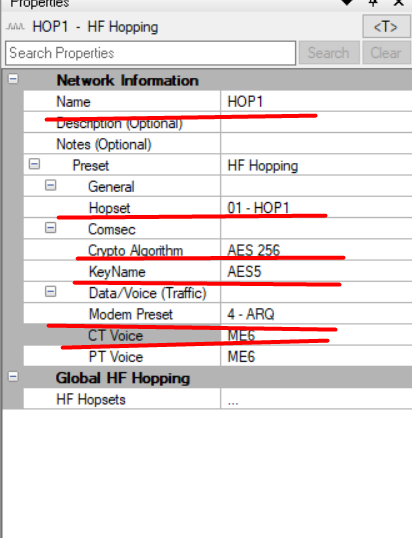
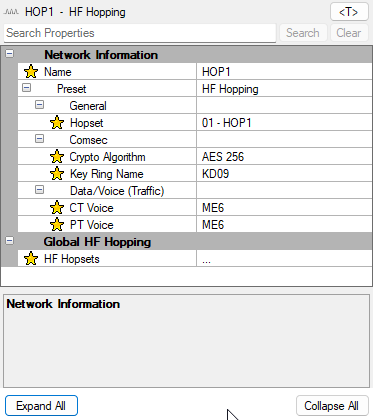
Оновити властивості мережі HOP і hopset

diff --git a/08-harris-kh-programuvannia/index.html b/08-harris-kh-programuvannia/index.html
@@ -5,7 +5,7 @@
   <meta name="viewport" content="width=device-width, initial-scale=1">
   <title>8. Програмування HARRIS КХ RF-7800H-MP</title>
   <link rel="icon" href="data:,">
-  <link rel="stylesheet" href="../style.css?v=d39fc394f5a7">
+  <link rel="stylesheet" href="../style.css?v=2a46de7981c3">
 </head>
 <body>
   <main class="page">
@@ -210,33 +210,35 @@
       <h2>Мережа HOP</h2>
       <div class="menu-path"><span>Create</span><span>Create Network</span><span>HF Hopping</span></div>
       <p>Додай станції через <code>Existing</code>, зніми виділення та натисни <code>Expand All</code>.</p>
-      <h3>Створення hopset</h3>
+      <h3>Властивості мережі</h3>
+      <p>Заповни основні властивості мережі:</p>
+      <ul>
+        <li><code>Name</code> — назва мережі;</li>
+        <li><code>Hopset</code> — призначений набір частот;</li>
+        <li><code>Crypto Algorithm</code> — алгоритм шифрування;</li>
+        <li><code>Key Ring Name</code> — створене кільце ключів;</li>
+        <li><code>CT Voice</code> і <code>PT Voice</code> — вокодери для захищеного та відкритого режимів.</li>
+      </ul>
+      <figure class="procedure-shot procedure-shot-narrow">
+        <button class="procedure-shot-button" type="button" aria-label="Збільшити властивості HOP"><img src="hop-network-properties.png" alt="Основні властивості мережі HF Hopping" loading="lazy"></button>
+        <figcaption>Призначення hopset, шифрування, кільця ключів і вокодерів мережі HOP.</figcaption>
+      </figure>
+      <h3>Створення та модифікація hopset</h3>
       <ol>
         <li>У групі <code>Global HF Hopping</code> відкрий <code>HF Hopsets</code> кнопкою з трьома крапками.</li>
-        <li>Для редагування наявного набору виділи його та натисни <code>Modify</code>.</li>
+        <li>Натисни <code>Add</code>, щоб створити новий hopset, або виділи наявний і натисни <code>Modify</code>. Кнопка <code>Delete</code> видаляє вибраний hopset.</li>
+        <li>Заповни <code>Name</code>, <code>Number</code> і <code>Type</code>; перевір значення <code>TOD Mask</code> та <code>Hopset ID</code>.</li>
         <li>У полі <code>Center Frequency</code> задай центральну частоту.</li>
         <li>У полі <code>Control (Auto Respond) Station</code> обери головну станцію.</li>
-        <li>Для створення інших наборів натисни <code>Add</code> і заповни ті самі основні поля.</li>
+        <li>Підтвердь налаштування кнопкою <code>OK</code>.</li>
       </ol>
       <figure class="procedure-shot">
-        <button class="procedure-shot-button" type="button" aria-label="Збільшити список hopset"><img src="hopset-list.png" alt="Список HF Hopsets і кнопка Modify" loading="lazy"></button>
-        <figcaption>Вибір наявного hopset для редагування.</figcaption>
+        <button class="procedure-shot-button" type="button" aria-label="Збільшити список і команди керування hopset"><img src="hopset-list.png" alt="Список Hopsets і кнопки Add, Modify та Delete" loading="lazy"></button>
+        <figcaption>Кнопки <code>Add</code>, <code>Modify</code> і <code>Delete</code> для керування hopset.</figcaption>
       </figure>
-      <div class="procedure-shot-pair">
-        <figure class="procedure-shot">
-          <button class="procedure-shot-button" type="button" aria-label="Збільшити центральну частоту hopset"><img src="hopset-center-frequency.png" alt="Поле Center Frequency у параметрах hopset" loading="lazy"></button>
-          <figcaption>Центральна частота hopset.</figcaption>
-        </figure>
-        <figure class="procedure-shot">
-          <button class="procedure-shot-button" type="button" aria-label="Збільшити вибір керувальної станції"><img src="hopset-control-station.png" alt="Поле Control Station у параметрах hopset" loading="lazy"></button>
-          <figcaption>Керувальна станція hopset.</figcaption>
-        </figure>
-      </div>
-      <h3>Властивості мережі</h3>
-      <p>Після створення hopset заповни <code>Name</code>, <code>Hopset</code>, <code>Crypto Algorithm</code>, <code>Key Name</code>, <code>Modem Preset</code>, <code>CT Voice</code> і <code>PT Voice</code>.</p>
-      <figure class="procedure-shot">
-        <button class="procedure-shot-button" type="button" aria-label="Збільшити властивості HOP"><img src="hop-network-properties.png" alt="Основні властивості мережі HF Hopping" loading="lazy"></button>
-        <figcaption>Призначення hopset та інших параметрів мережі HOP.</figcaption>
+      <figure class="procedure-shot procedure-shot-narrow">
+        <button class="procedure-shot-button" type="button" aria-label="Збільшити параметри hopset"><img src="hopset-settings.png" alt="Основні параметри hopset, центральна частота й керувальна станція" loading="lazy"></button>
+        <figcaption>Основні параметри hopset, <code>Center Frequency</code> і <code>Control (Auto Respond) Station</code>.</figcaption>
       </figure>
     </section>
 
@@ -349,12 +351,12 @@
       <p><a href="../07-harris-kh-ekspluatatsiia/index.html#ip-adresa">Перегляд налаштування DIRECT USB та IP-адреси радіостанції</a></p>
     </section>
   </main>
-  <script src="../asset-version.js?v=d39fc394f5a7"></script>
-  <script src="../search-index.js?v=d39fc394f5a7"></script>
-  <script src="../topic-search.js?v=d39fc394f5a7"></script>
+  <script src="../asset-version.js?v=2a46de7981c3"></script>
+  <script src="../search-index.js?v=2a46de7981c3"></script>
+  <script src="../topic-search.js?v=2a46de7981c3"></script>
   <script>window.GLOSSARY_ROOT = "../";</script>
-  <script src="../glossary-data.js?v=d39fc394f5a7"></script>
-  <script src="../glossary-terms.js?v=d39fc394f5a7"></script>
-  <script src="../site-ui.js?v=d39fc394f5a7"></script>
+  <script src="../glossary-data.js?v=2a46de7981c3"></script>
+  <script src="../glossary-terms.js?v=2a46de7981c3"></script>
+  <script src="../site-ui.js?v=2a46de7981c3"></script>
 </body>
 </html>

diff --git a/02-tehnika-bezpeky/quiz.html b/02-tehnika-bezpeky/quiz.html
@@ -1,8 +1,8 @@
 <!doctype html>
-  <script src="../asset-version.js?v=d39fc394f5a7"></script>
+  <script src="../asset-version.js?v=2a46de7981c3"></script>
 
 <script>location.replace("../quiz.html?topic=2");</script>
-<html lang="uk"><head><meta charset="utf-8"><meta name="viewport" content="width=device-width, initial-scale=1"><title>Вікторина</title><link rel="icon" href="data:,"><link rel="stylesheet" href="../style.css?v=d39fc394f5a7"><link rel="stylesheet" href="../quiz-common.css?v=d39fc394f5a7"></head>
+<html lang="uk"><head><meta charset="utf-8"><meta name="viewport" content="width=device-width, initial-scale=1"><title>Вікторина</title><link rel="icon" href="data:,"><link rel="stylesheet" href="../style.css?v=2a46de7981c3"><link rel="stylesheet" href="../quiz-common.css?v=2a46de7981c3"></head>
 <body><main class="page quiz-page">
   <div class="topbar"><a href="index.html">До конспекту</a><span>Тема 2 / Тренування</span></div>
   <header class="quiz-header"><div><p id="topicLabel" class="source"></p><h1 id="quizTitle">Екзаменаційна вікторина</h1></div><div class="scoreboard" aria-label="Стан вікторини"><div><span id="progressText">-</span><small>питання</small></div><div><span id="scoreText">0</span><small>правильно</small></div><div><span id="bestText">-</span><small>найкраще</small></div></div></header>
@@ -10,4 +10,4 @@
   <section id="resumePanel" class="resume-panel" hidden><p class="question-topic">Незавершена спроба</p><h2>Продовжити збережену вікторину?</h2><p id="resumeSummary"></p><div class="quiz-actions"><button id="resumeButton" class="primary-button" type="button">Продовжити</button><button id="newQuizButton" class="secondary-button" type="button">Почати нову</button></div></section>
   <section id="quizPanel" class="quiz-panel" hidden aria-live="polite"><p id="questionTopic" class="question-topic"></p><h2 id="questionText"></h2><div id="answers" class="answers" role="radiogroup"></div><div id="feedback" class="feedback" hidden><p id="feedbackTitle" class="feedback-title"></p><p id="feedbackText"></p><a id="referenceLink" class="reference-link" href="index.html" target="_blank" rel="noopener">Відкрити фрагмент конспекту</a></div><div class="quiz-actions"><button id="checkButton" class="primary-button" type="button" disabled>Перевірити</button><button id="nextButton" class="primary-button" type="button" hidden>Наступне питання</button></div></section>
   <section id="resultPanel" class="result-panel" hidden><p class="result-label">Результат</p><h2 id="resultTitle"></h2><p id="resultMessage"></p><div class="result-stats"><div><strong id="resultCorrectTotal">0/0</strong><span>правильно / усього</span></div><div><strong id="resultGrade">0/5</strong><span>оцінка</span></div><div><strong id="resultPercent">0%</strong><span>правильних</span></div><div><strong id="resultTime">0:00</strong><span>активний час</span></div></div><div id="mistakes" class="mistakes"></div><div class="result-actions"><button id="restartButton" class="primary-button" type="button">Пройти ще раз</button><a class="secondary-button" href="index.html">До конспекту</a></div></section>
-</main><script src="quiz-data.js?v=d39fc394f5a7"></script><script src="../quiz-engine.js?v=d39fc394f5a7"></script><script src="../site-ui.js?v=d39fc394f5a7"></script></body></html>
+</main><script src="quiz-data.js?v=2a46de7981c3"></script><script src="../quiz-engine.js?v=2a46de7981c3"></script><script src="../site-ui.js?v=2a46de7981c3"></script></body></html>

diff --git a/03-radiohvyli-radiozviazok-zavady/quiz.html b/03-radiohvyli-radiozviazok-zavady/quiz.html
@@ -1,8 +1,8 @@
 <!doctype html>
-  <script src="../asset-version.js?v=d39fc394f5a7"></script>
+  <script src="../asset-version.js?v=2a46de7981c3"></script>
 
 <script>location.replace("../quiz.html?topic=3");</script>
-<html lang="uk"><head><meta charset="utf-8"><meta name="viewport" content="width=device-width, initial-scale=1"><title>Вікторина</title><link rel="icon" href="data:,"><link rel="stylesheet" href="../style.css?v=d39fc394f5a7"><link rel="stylesheet" href="../quiz-common.css?v=d39fc394f5a7"></head>
+<html lang="uk"><head><meta charset="utf-8"><meta name="viewport" content="width=device-width, initial-scale=1"><title>Вікторина</title><link rel="icon" href="data:,"><link rel="stylesheet" href="../style.css?v=2a46de7981c3"><link rel="stylesheet" href="../quiz-common.css?v=2a46de7981c3"></head>
 <body><main class="page quiz-page">
   <div class="topbar"><a href="index.html">До конспекту</a><span>Тема 3 / Тренування</span></div>
   <header class="quiz-header"><div><p id="topicLabel" class="source"></p><h1 id="quizTitle">Екзаменаційна вікторина</h1></div><div class="scoreboard" aria-label="Стан вікторини"><div><span id="progressText">-</span><small>питання</small></div><div><span id="scoreText">0</span><small>правильно</small></div><div><span id="bestText">-</span><small>найкраще</small></div></div></header>
@@ -10,4 +10,4 @@
   <section id="resumePanel" class="resume-panel" hidden><p class="question-topic">Незавершена спроба</p><h2>Продовжити збережену вікторину?</h2><p id="resumeSummary"></p><div class="quiz-actions"><button id="resumeButton" class="primary-button" type="button">Продовжити</button><button id="newQuizButton" class="secondary-button" type="button">Почати нову</button></div></section>
   <section id="quizPanel" class="quiz-panel" hidden aria-live="polite"><p id="questionTopic" class="question-topic"></p><h2 id="questionText"></h2><div id="answers" class="answers" role="radiogroup"></div><div id="feedback" class="feedback" hidden><p id="feedbackTitle" class="feedback-title"></p><p id="feedbackText"></p><a id="referenceLink" class="reference-link" href="index.html" target="_blank" rel="noopener">Відкрити фрагмент конспекту</a></div><div class="quiz-actions"><button id="checkButton" class="primary-button" type="button" disabled>Перевірити</button><button id="nextButton" class="primary-button" type="button" hidden>Наступне питання</button></div></section>
   <section id="resultPanel" class="result-panel" hidden><p class="result-label">Результат</p><h2 id="resultTitle"></h2><p id="resultMessage"></p><div class="result-stats"><div><strong id="resultCorrectTotal">0/0</strong><span>правильно / усього</span></div><div><strong id="resultGrade">0/5</strong><span>оцінка</span></div><div><strong id="resultPercent">0%</strong><span>правильних</span></div><div><strong id="resultTime">0:00</strong><span>активний час</span></div></div><div id="mistakes" class="mistakes"></div><div class="result-actions"><button id="restartButton" class="primary-button" type="button">Пройти ще раз</button><a class="secondary-button" href="index.html">До конспекту</a></div></section>
-</main><script src="quiz-data.js?v=d39fc394f5a7"></script><script src="../quiz-engine.js?v=d39fc394f5a7"></script><script src="../site-ui.js?v=d39fc394f5a7"></script></body></html>
+</main><script src="quiz-data.js?v=2a46de7981c3"></script><script src="../quiz-engine.js?v=2a46de7981c3"></script><script src="../site-ui.js?v=2a46de7981c3"></script></body></html>

diff --git a/04-pobudova-radiostantsii-antenny/quiz.html b/04-pobudova-radiostantsii-antenny/quiz.html
@@ -1,8 +1,8 @@
 <!doctype html>
-  <script src="../asset-version.js?v=d39fc394f5a7"></script>
+  <script src="../asset-version.js?v=2a46de7981c3"></script>
 
 <script>location.replace("../quiz.html?topic=4");</script>
-<html lang="uk"><head><meta charset="utf-8"><meta name="viewport" content="width=device-width, initial-scale=1"><title>Вікторина</title><link rel="icon" href="data:,"><link rel="stylesheet" href="../style.css?v=d39fc394f5a7"><link rel="stylesheet" href="../quiz-common.css?v=d39fc394f5a7"></head>
+<html lang="uk"><head><meta charset="utf-8"><meta name="viewport" content="width=device-width, initial-scale=1"><title>Вікторина</title><link rel="icon" href="data:,"><link rel="stylesheet" href="../style.css?v=2a46de7981c3"><link rel="stylesheet" href="../quiz-common.css?v=2a46de7981c3"></head>
 <body><main class="page quiz-page">
   <div class="topbar"><a href="index.html">До конспекту</a><span>Тема 4 / Тренування</span></div>
   <header class="quiz-header"><div><p id="topicLabel" class="source"></p><h1 id="quizTitle">Екзаменаційна вікторина</h1></div><div class="scoreboard" aria-label="Стан вікторини"><div><span id="progressText">-</span><small>питання</small></div><div><span id="scoreText">0</span><small>правильно</small></div><div><span id="bestText">-</span><small>найкраще</small></div></div></header>
@@ -10,4 +10,4 @@
   <section id="resumePanel" class="resume-panel" hidden><p class="question-topic">Незавершена спроба</p><h2>Продовжити збережену вікторину?</h2><p id="resumeSummary"></p><div class="quiz-actions"><button id="resumeButton" class="primary-button" type="button">Продовжити</button><button id="newQuizButton" class="secondary-button" type="button">Почати нову</button></div></section>
   <section id="quizPanel" class="quiz-panel" hidden aria-live="polite"><p id="questionTopic" class="question-topic"></p><h2 id="questionText"></h2><div id="answers" class="answers" role="radiogroup"></div><div id="feedback" class="feedback" hidden><p id="feedbackTitle" class="feedback-title"></p><p id="feedbackText"></p><a id="referenceLink" class="reference-link" href="index.html" target="_blank" rel="noopener">Відкрити фрагмент конспекту</a></div><div class="quiz-actions"><button id="checkButton" class="primary-button" type="button" disabled>Перевірити</button><button id="nextButton" class="primary-button" type="button" hidden>Наступне питання</button></div></section>
   <section id="resultPanel" class="result-panel" hidden><p class="result-label">Результат</p><h2 id="resultTitle"></h2><p id="resultMessage"></p><div class="result-stats"><div><strong id="resultCorrectTotal">0/0</strong><span>правильно / усього</span></div><div><strong id="resultGrade">0/5</strong><span>оцінка</span></div><div><strong id="resultPercent">0%</strong><span>правильних</span></div><div><strong id="resultTime">0:00</strong><span>активний час</span></div></div><div id="mistakes" class="mistakes"></div><div class="result-actions"><button id="restartButton" class="primary-button" type="button">Пройти ще раз</button><a class="secondary-button" href="index.html">До конспекту</a></div></section>
-</main><script src="quiz-data.js?v=d39fc394f5a7"></script><script src="../quiz-engine.js?v=d39fc394f5a7"></script><script src="../site-ui.js?v=d39fc394f5a7"></script></body></html>
+</main><script src="quiz-data.js?v=2a46de7981c3"></script><script src="../quiz-engine.js?v=2a46de7981c3"></script><script src="../site-ui.js?v=2a46de7981c3"></script></body></html>

diff --git a/05-harris-ukh/quiz.html b/05-harris-ukh/quiz.html
@@ -1,8 +1,8 @@
 <!doctype html>
-  <script src="../asset-version.js?v=d39fc394f5a7"></script>
+  <script src="../asset-version.js?v=2a46de7981c3"></script>
 
 <script>location.replace("../quiz.html?topic=5");</script>
-<html lang="uk"><head><meta charset="utf-8"><meta name="viewport" content="width=device-width, initial-scale=1"><title>Вікторина</title><link rel="icon" href="data:,"><link rel="stylesheet" href="../style.css?v=d39fc394f5a7"><link rel="stylesheet" href="../quiz-common.css?v=d39fc394f5a7"></head>
+<html lang="uk"><head><meta charset="utf-8"><meta name="viewport" content="width=device-width, initial-scale=1"><title>Вікторина</title><link rel="icon" href="data:,"><link rel="stylesheet" href="../style.css?v=2a46de7981c3"><link rel="stylesheet" href="../quiz-common.css?v=2a46de7981c3"></head>
 <body><main class="page quiz-page">
   <div class="topbar"><a href="index.html">До конспекту</a><span>Тема 5 / Тренування</span></div>
   <header class="quiz-header"><div><p id="topicLabel" class="source"></p><h1 id="quizTitle">Екзаменаційна вікторина</h1></div><div class="scoreboard" aria-label="Стан вікторини"><div><span id="progressText">-</span><small>питання</small></div><div><span id="scoreText">0</span><small>правильно</small></div><div><span id="bestText">-</span><small>найкраще</small></div></div></header>
@@ -10,4 +10,4 @@
   <section id="resumePanel" class="resume-panel" hidden><p class="question-topic">Незавершена спроба</p><h2>Продовжити збережену вікторину?</h2><p id="resumeSummary"></p><div class="quiz-actions"><button id="resumeButton" class="primary-button" type="button">Продовжити</button><button id="newQuizButton" class="secondary-button" type="button">Почати нову</button></div></section>
   <section id="quizPanel" class="quiz-panel" hidden aria-live="polite"><p id="questionTopic" class="question-topic"></p><h2 id="questionText"></h2><div id="answers" class="answers" role="radiogroup"></div><div id="feedback" class="feedback" hidden><p id="feedbackTitle" class="feedback-title"></p><p id="feedbackText"></p><a id="referenceLink" class="reference-link" href="index.html" target="_blank" rel="noopener">Відкрити фрагмент конспекту</a></div><div class="quiz-actions"><button id="checkButton" class="primary-button" type="button" disabled>Перевірити</button><button id="nextButton" class="primary-button" type="button" hidden>Наступне питання</button></div></section>
   <section id="resultPanel" class="result-panel" hidden><p class="result-label">Результат</p><h2 id="resultTitle"></h2><p id="resultMessage"></p><div class="result-stats"><div><strong id="resultCorrectTotal">0/0</strong><span>правильно / усього</span></div><div><strong id="resultGrade">0/5</strong><span>оцінка</span></div><div><strong id="resultPercent">0%</strong><span>правильних</span></div><div><strong id="resultTime">0:00</strong><span>активний час</span></div></div><div id="mistakes" class="mistakes"></div><div class="result-actions"><button id="restartButton" class="primary-button" type="button">Пройти ще раз</button><a class="secondary-button" href="index.html">До конспекту</a></div></section>
-</main><script src="quiz-data.js?v=d39fc394f5a7"></script><script src="../quiz-engine.js?v=d39fc394f5a7"></script><script src="../site-ui.js?v=d39fc394f5a7"></script></body></html>
+</main><script src="quiz-data.js?v=2a46de7981c3"></script><script src="../quiz-engine.js?v=2a46de7981c3"></script><script src="../site-ui.js?v=2a46de7981c3"></script></body></html>

diff --git a/search-index.js b/search-index.js
@@ -421,7 +421,7 @@ window.SEARCH_INDEX = {
       "topic": "8. Програмування HARRIS КХ RF-7800H-MP",
       "section": "Мережа HOP",
       "url": "08-harris-kh-programuvannia/index.html#hop",
-      "text": "Мережа HOP Create Create Network HF Hopping Додай станції через Existing , зніми виділення та натисни Expand All . Створення hopset У групі Global HF Hopping відкрий HF Hopsets кнопкою з трьома крапками. Для редагування наявного набору виділи його та натисни Modify . У полі Center Frequency задай центральну частоту. У полі Control (Auto Respond) Station обери головну станцію. Для створення інших наборів натисни Add і заповни ті самі основні поля. Вибір наявного hopset для редагування. Центральна частота hopset. Керувальна станція hopset. Властивості мережі Після створення hopset заповни Name , Hopset , Crypto Algorithm , Key Name , Modem Preset , CT Voice і PT Voice . Призначення hopset та інших параметрів мережі HOP."
+      "text": "Мережа HOP Create Create Network HF Hopping Додай станції через Existing , зніми виділення та натисни Expand All . Властивості мережі Заповни основні властивості мережі: Name — назва мережі; Hopset — призначений набір частот; Crypto Algorithm — алгоритм шифрування; Key Ring Name — створене кільце ключів; CT Voice і PT Voice — вокодери для захищеного та відкритого режимів. Призначення hopset, шифрування, кільця ключів і вокодерів мережі HOP. Створення та модифікація hopset У групі Global HF Hopping відкрий HF Hopsets кнопкою з трьома крапками. Натисни Add , щоб створити новий hopset, або виділи наявний і натисни Modify . Кнопка Delete видаляє вибраний hopset. Заповни Name , Number і Type ; перевір значення TOD Mask та Hopset ID . У полі Center Frequency задай центральну частоту. У полі Control (Auto Respond) Station обери головну станцію. Підтвердь налаштування кнопкою OK . Кнопки Add , Modify і Delete для керування hopset. Основні параметри hopset, Center Frequency і Control (Auto Respond) Station ."
     },
     {
       "topic": "8. Програмування HARRIS КХ RF-7800H-MP",

diff --git a/02-tehnika-bezpeky/index.html b/02-tehnika-bezpeky/index.html
@@ -4,7 +4,7 @@
   <meta charset="utf-8">
   <meta name="viewport" content="width=device-width, initial-scale=1">
   <title>2. Техніка безпеки при експлуатації та обслуговуванні засобів радіозв'язку</title>
-  <link rel="stylesheet" href="../style.css?v=d39fc394f5a7">
+  <link rel="stylesheet" href="../style.css?v=2a46de7981c3">
 </head>
 <body>
   <main class="page">
@@ -166,13 +166,13 @@
     <div class="topic-quiz-cta"><div><strong>Перевір себе</strong><span>Перевір знання за матеріалами цієї теми.</span></div><a class="topic-quiz-button" href="../quiz.html?topic=2">Почати вікторину <span aria-hidden="true">→</span></a></div>
 
   </main>
-  <script src="../asset-version.js?v=d39fc394f5a7"></script>
+  <script src="../asset-version.js?v=2a46de7981c3"></script>
 
-  <script src="../search-index.js?v=d39fc394f5a7"></script>
-  <script src="../topic-search.js?v=d39fc394f5a7"></script>
+  <script src="../search-index.js?v=2a46de7981c3"></script>
+  <script src="../topic-search.js?v=2a46de7981c3"></script>
   <script>window.GLOSSARY_ROOT = "../";</script>
-  <script src="../glossary-data.js?v=d39fc394f5a7"></script>
-  <script src="../glossary-terms.js?v=d39fc394f5a7"></script>
-  <script src="../site-ui.js?v=d39fc394f5a7"></script>
+  <script src="../glossary-data.js?v=2a46de7981c3"></script>
+  <script src="../glossary-terms.js?v=2a46de7981c3"></script>
+  <script src="../site-ui.js?v=2a46de7981c3"></script>
 </body>
 </html>

diff --git a/01-osnovy-radiozviazku/index.html b/01-osnovy-radiozviazku/index.html
@@ -4,7 +4,7 @@
   <meta charset="utf-8">
   <meta name="viewport" content="width=device-width, initial-scale=1">
   <title>1. Основи радіозв'язку: організація, режими, радіообмін</title>
-  <link rel="stylesheet" href="../style.css?v=d39fc394f5a7">
+  <link rel="stylesheet" href="../style.css?v=2a46de7981c3">
 </head>
 <body>
   <main class="page">
@@ -205,13 +205,13 @@
 
     <div class="topic-quiz-cta"><div><strong>Перевір себе</strong><span>Перевір знання за матеріалами цієї теми.</span></div><a class="topic-quiz-button" href="../quiz.html?topic=1">Почати вікторину <span aria-hidden="true">→</span></a></div>
   </main>
-  <script src="../asset-version.js?v=d39fc394f5a7"></script>
+  <script src="../asset-version.js?v=2a46de7981c3"></script>
 
-  <script src="../search-index.js?v=d39fc394f5a7"></script>
-  <script src="../topic-search.js?v=d39fc394f5a7"></script>
+  <script src="../search-index.js?v=2a46de7981c3"></script>
+  <script src="../topic-search.js?v=2a46de7981c3"></script>
   <script>window.GLOSSARY_ROOT = "../";</script>
-  <script src="../glossary-data.js?v=d39fc394f5a7"></script>
-  <script src="../glossary-terms.js?v=d39fc394f5a7"></script>
-  <script src="../site-ui.js?v=d39fc394f5a7"></script>
+  <script src="../glossary-data.js?v=2a46de7981c3"></script>
+  <script src="../glossary-terms.js?v=2a46de7981c3"></script>
+  <script src="../site-ui.js?v=2a46de7981c3"></script>
 </body>
 </html>

diff --git a/04-pobudova-radiostantsii-antenny/index.html b/04-pobudova-radiostantsii-antenny/index.html
@@ -4,7 +4,7 @@
   <meta charset="utf-8">
   <meta name="viewport" content="width=device-width, initial-scale=1">
   <title>4. Побудова сучасних радіостанцій та антени</title>
-  <link rel="stylesheet" href="../style.css?v=d39fc394f5a7">
+  <link rel="stylesheet" href="../style.css?v=2a46de7981c3">
 </head>
 <body>
   <main class="page">
@@ -208,13 +208,13 @@
     <div class="topic-quiz-cta"><div><strong>Перевір себе</strong><span>Перевір знання за матеріалами цієї теми.</span></div><a class="topic-quiz-button" href="../quiz.html?topic=4">Почати вікторину <span aria-hidden="true">→</span></a></div>
 
   </main>
-  <script src="../asset-version.js?v=d39fc394f5a7"></script>
+  <script src="../asset-version.js?v=2a46de7981c3"></script>
 
-  <script src="../search-index.js?v=d39fc394f5a7"></script>
-  <script src="../topic-search.js?v=d39fc394f5a7"></script>
+  <script src="../search-index.js?v=2a46de7981c3"></script>
+  <script src="../topic-search.js?v=2a46de7981c3"></script>
   <script>window.GLOSSARY_ROOT = "../";</script>
-  <script src="../glossary-data.js?v=d39fc394f5a7"></script>
-  <script src="../glossary-terms.js?v=d39fc394f5a7"></script>
-  <script src="../site-ui.js?v=d39fc394f5a7"></script>
+  <script src="../glossary-data.js?v=2a46de7981c3"></script>
+  <script src="../glossary-terms.js?v=2a46de7981c3"></script>
+  <script src="../site-ui.js?v=2a46de7981c3"></script>
 </body>
 </html>

diff --git a/03-radiohvyli-radiozviazok-zavady/index.html b/03-radiohvyli-radiozviazok-zavady/index.html
@@ -4,7 +4,7 @@
   <meta charset="utf-8">
   <meta name="viewport" content="width=device-width, initial-scale=1">
   <title>3. Радіохвилі, радіозв'язок і радіозавади</title>
-  <link rel="stylesheet" href="../style.css?v=d39fc394f5a7">
+  <link rel="stylesheet" href="../style.css?v=2a46de7981c3">
 </head>
 <body>
   <main class="page">
@@ -171,13 +171,13 @@
     <div class="topic-quiz-cta"><div><strong>Перевір себе</strong><span>Перевір знання за матеріалами цієї теми.</span></div><a class="topic-quiz-button" href="../quiz.html?topic=3">Почати вікторину <span aria-hidden="true">→</span></a></div>
 
   </main>
-  <script src="../asset-version.js?v=d39fc394f5a7"></script>
+  <script src="../asset-version.js?v=2a46de7981c3"></script>
 
-  <script src="../search-index.js?v=d39fc394f5a7"></script>
-  <script src="../topic-search.js?v=d39fc394f5a7"></script>
+  <script src="../search-index.js?v=2a46de7981c3"></script>
+  <script src="../topic-search.js?v=2a46de7981c3"></script>
   <script>window.GLOSSARY_ROOT = "../";</script>
-  <script src="../glossary-data.js?v=d39fc394f5a7"></script>
-  <script src="../glossary-terms.js?v=d39fc394f5a7"></script>
-  <script src="../site-ui.js?v=d39fc394f5a7"></script>
+  <script src="../glossary-data.js?v=2a46de7981c3"></script>
+  <script src="../glossary-terms.js?v=2a46de7981c3"></script>
+  <script src="../site-ui.js?v=2a46de7981c3"></script>
 </body>
 </html>

diff --git a/07-harris-kh-ekspluatatsiia/index.html b/07-harris-kh-ekspluatatsiia/index.html
@@ -5,7 +5,7 @@
   <meta name="viewport" content="width=device-width, initial-scale=1">
   <title>7. Експлуатація HARRIS КХ RF-7800H-MP / MPR-9600-MP</title>
   <link rel="icon" href="data:,">
-  <link rel="stylesheet" href="../style.css?v=d39fc394f5a7">
+  <link rel="stylesheet" href="../style.css?v=2a46de7981c3">
 </head>
 <body>
   <main class="page">
@@ -216,13 +216,13 @@
 
     <div class="topic-quiz-cta"><div><strong>Перевір себе</strong><span>Перевір знання за матеріалами цієї теми.</span></div><a class="topic-quiz-button" href="../quiz.html?topic=7">Почати вікторину <span aria-hidden="true">→</span></a></div>
   </main>
-  <script src="../asset-version.js?v=d39fc394f5a7"></script>
+  <script src="../asset-version.js?v=2a46de7981c3"></script>
 
-  <script src="../search-index.js?v=d39fc394f5a7"></script>
-  <script src="../topic-search.js?v=d39fc394f5a7"></script>
+  <script src="../search-index.js?v=2a46de7981c3"></script>
+  <script src="../topic-search.js?v=2a46de7981c3"></script>
   <script>window.GLOSSARY_ROOT = "../";</script>
-  <script src="../glossary-data.js?v=d39fc394f5a7"></script>
-  <script src="../glossary-terms.js?v=d39fc394f5a7"></script>
-  <script src="../site-ui.js?v=d39fc394f5a7"></script>
+  <script src="../glossary-data.js?v=2a46de7981c3"></script>
+  <script src="../glossary-terms.js?v=2a46de7981c3"></script>
+  <script src="../site-ui.js?v=2a46de7981c3"></script>
 </body>
 </html>

diff --git a/05-harris-ukh/index.html b/05-harris-ukh/index.html
@@ -5,7 +5,7 @@
   <meta name="viewport" content="width=device-width, initial-scale=1">
   <title>5. ТТХ HARRIS УКХ RF-7850M-HH / RF-7800V-HH</title>
   <link rel="icon" href="data:,">
-  <link rel="stylesheet" href="../style.css?v=d39fc394f5a7">
+  <link rel="stylesheet" href="../style.css?v=2a46de7981c3">
 </head>
 <body>
   <main class="page">
@@ -498,13 +498,13 @@
     <div class="topic-quiz-cta"><div><strong>Перевір себе</strong><span>Перевір знання за матеріалами цієї теми.</span></div><a class="topic-quiz-button" href="../quiz.html?topic=5">Почати вікторину <span aria-hidden="true">→</span></a></div>
 
   </main>
-  <script src="../asset-version.js?v=d39fc394f5a7"></script>
+  <script src="../asset-version.js?v=2a46de7981c3"></script>
 
-  <script src="../search-index.js?v=d39fc394f5a7"></script>
-  <script src="../topic-search.js?v=d39fc394f5a7"></script>
+  <script src="../search-index.js?v=2a46de7981c3"></script>
+  <script src="../topic-search.js?v=2a46de7981c3"></script>
   <script>window.GLOSSARY_ROOT = "../";</script>
-  <script src="../glossary-data.js?v=d39fc394f5a7"></script>
-  <script src="../glossary-terms.js?v=d39fc394f5a7"></script>
-  <script src="../site-ui.js?v=d39fc394f5a7"></script>
+  <script src="../glossary-data.js?v=2a46de7981c3"></script>
+  <script src="../glossary-terms.js?v=2a46de7981c3"></script>
+  <script src="../site-ui.js?v=2a46de7981c3"></script>
 </body>
 </html>
